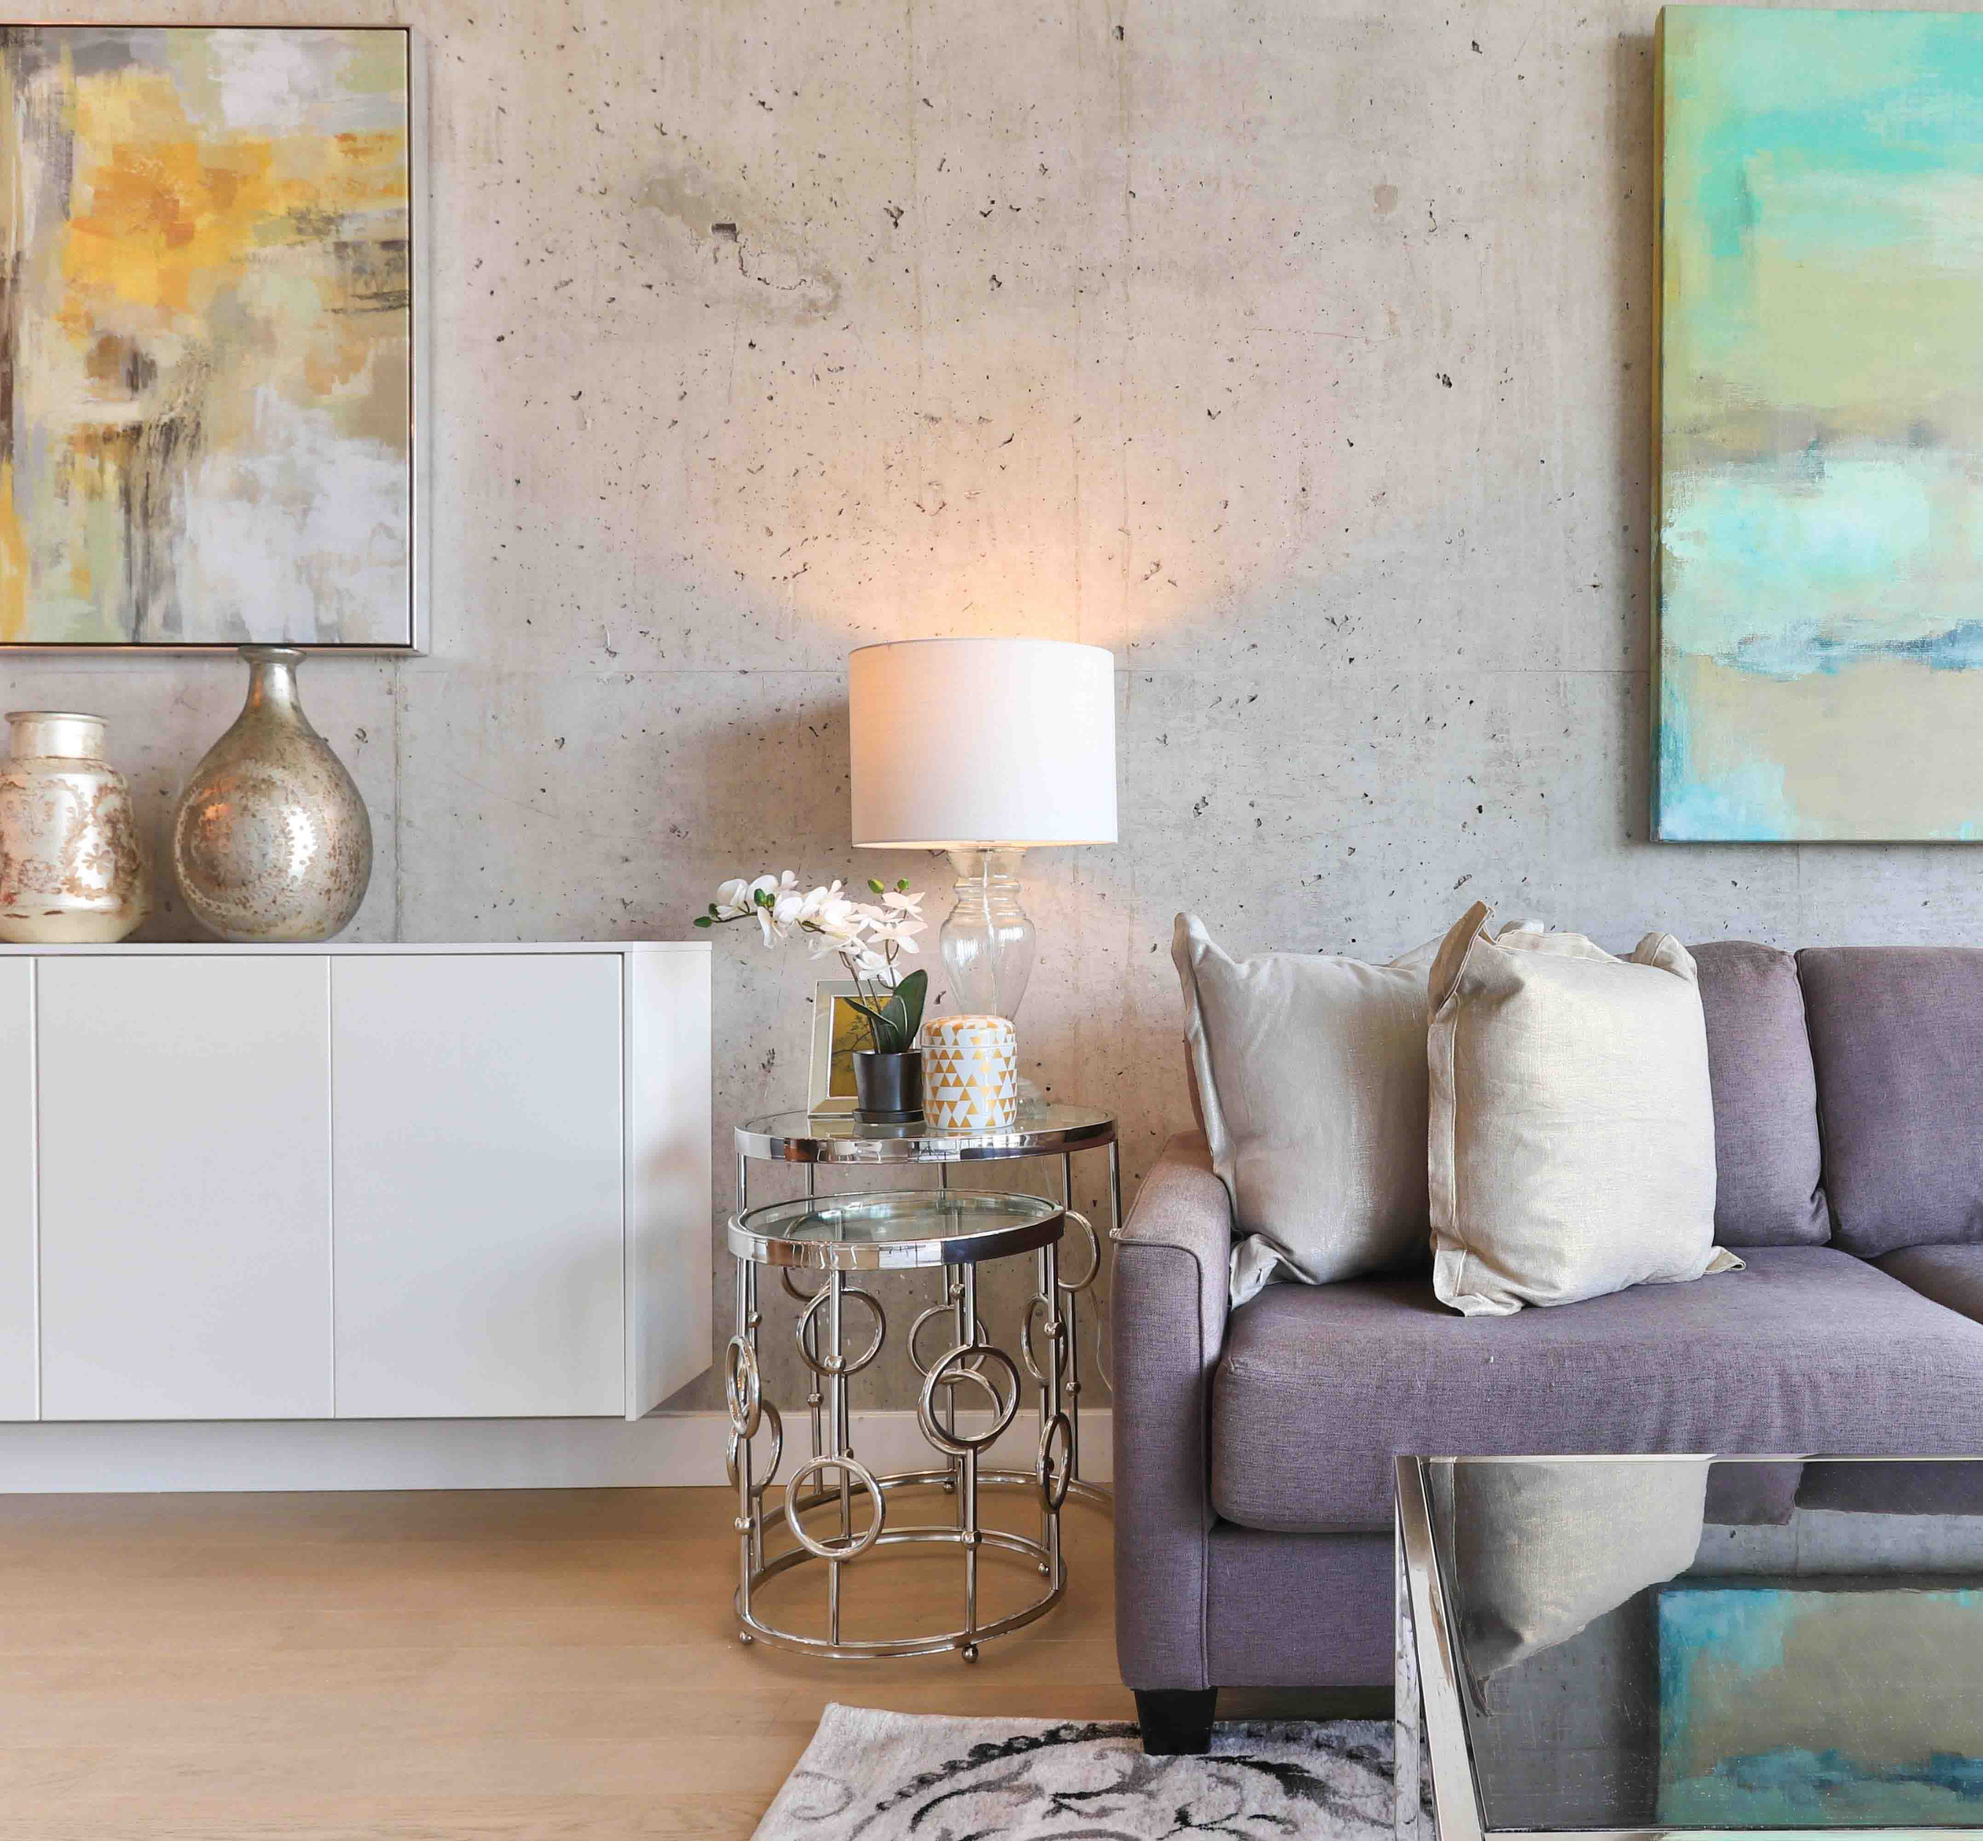
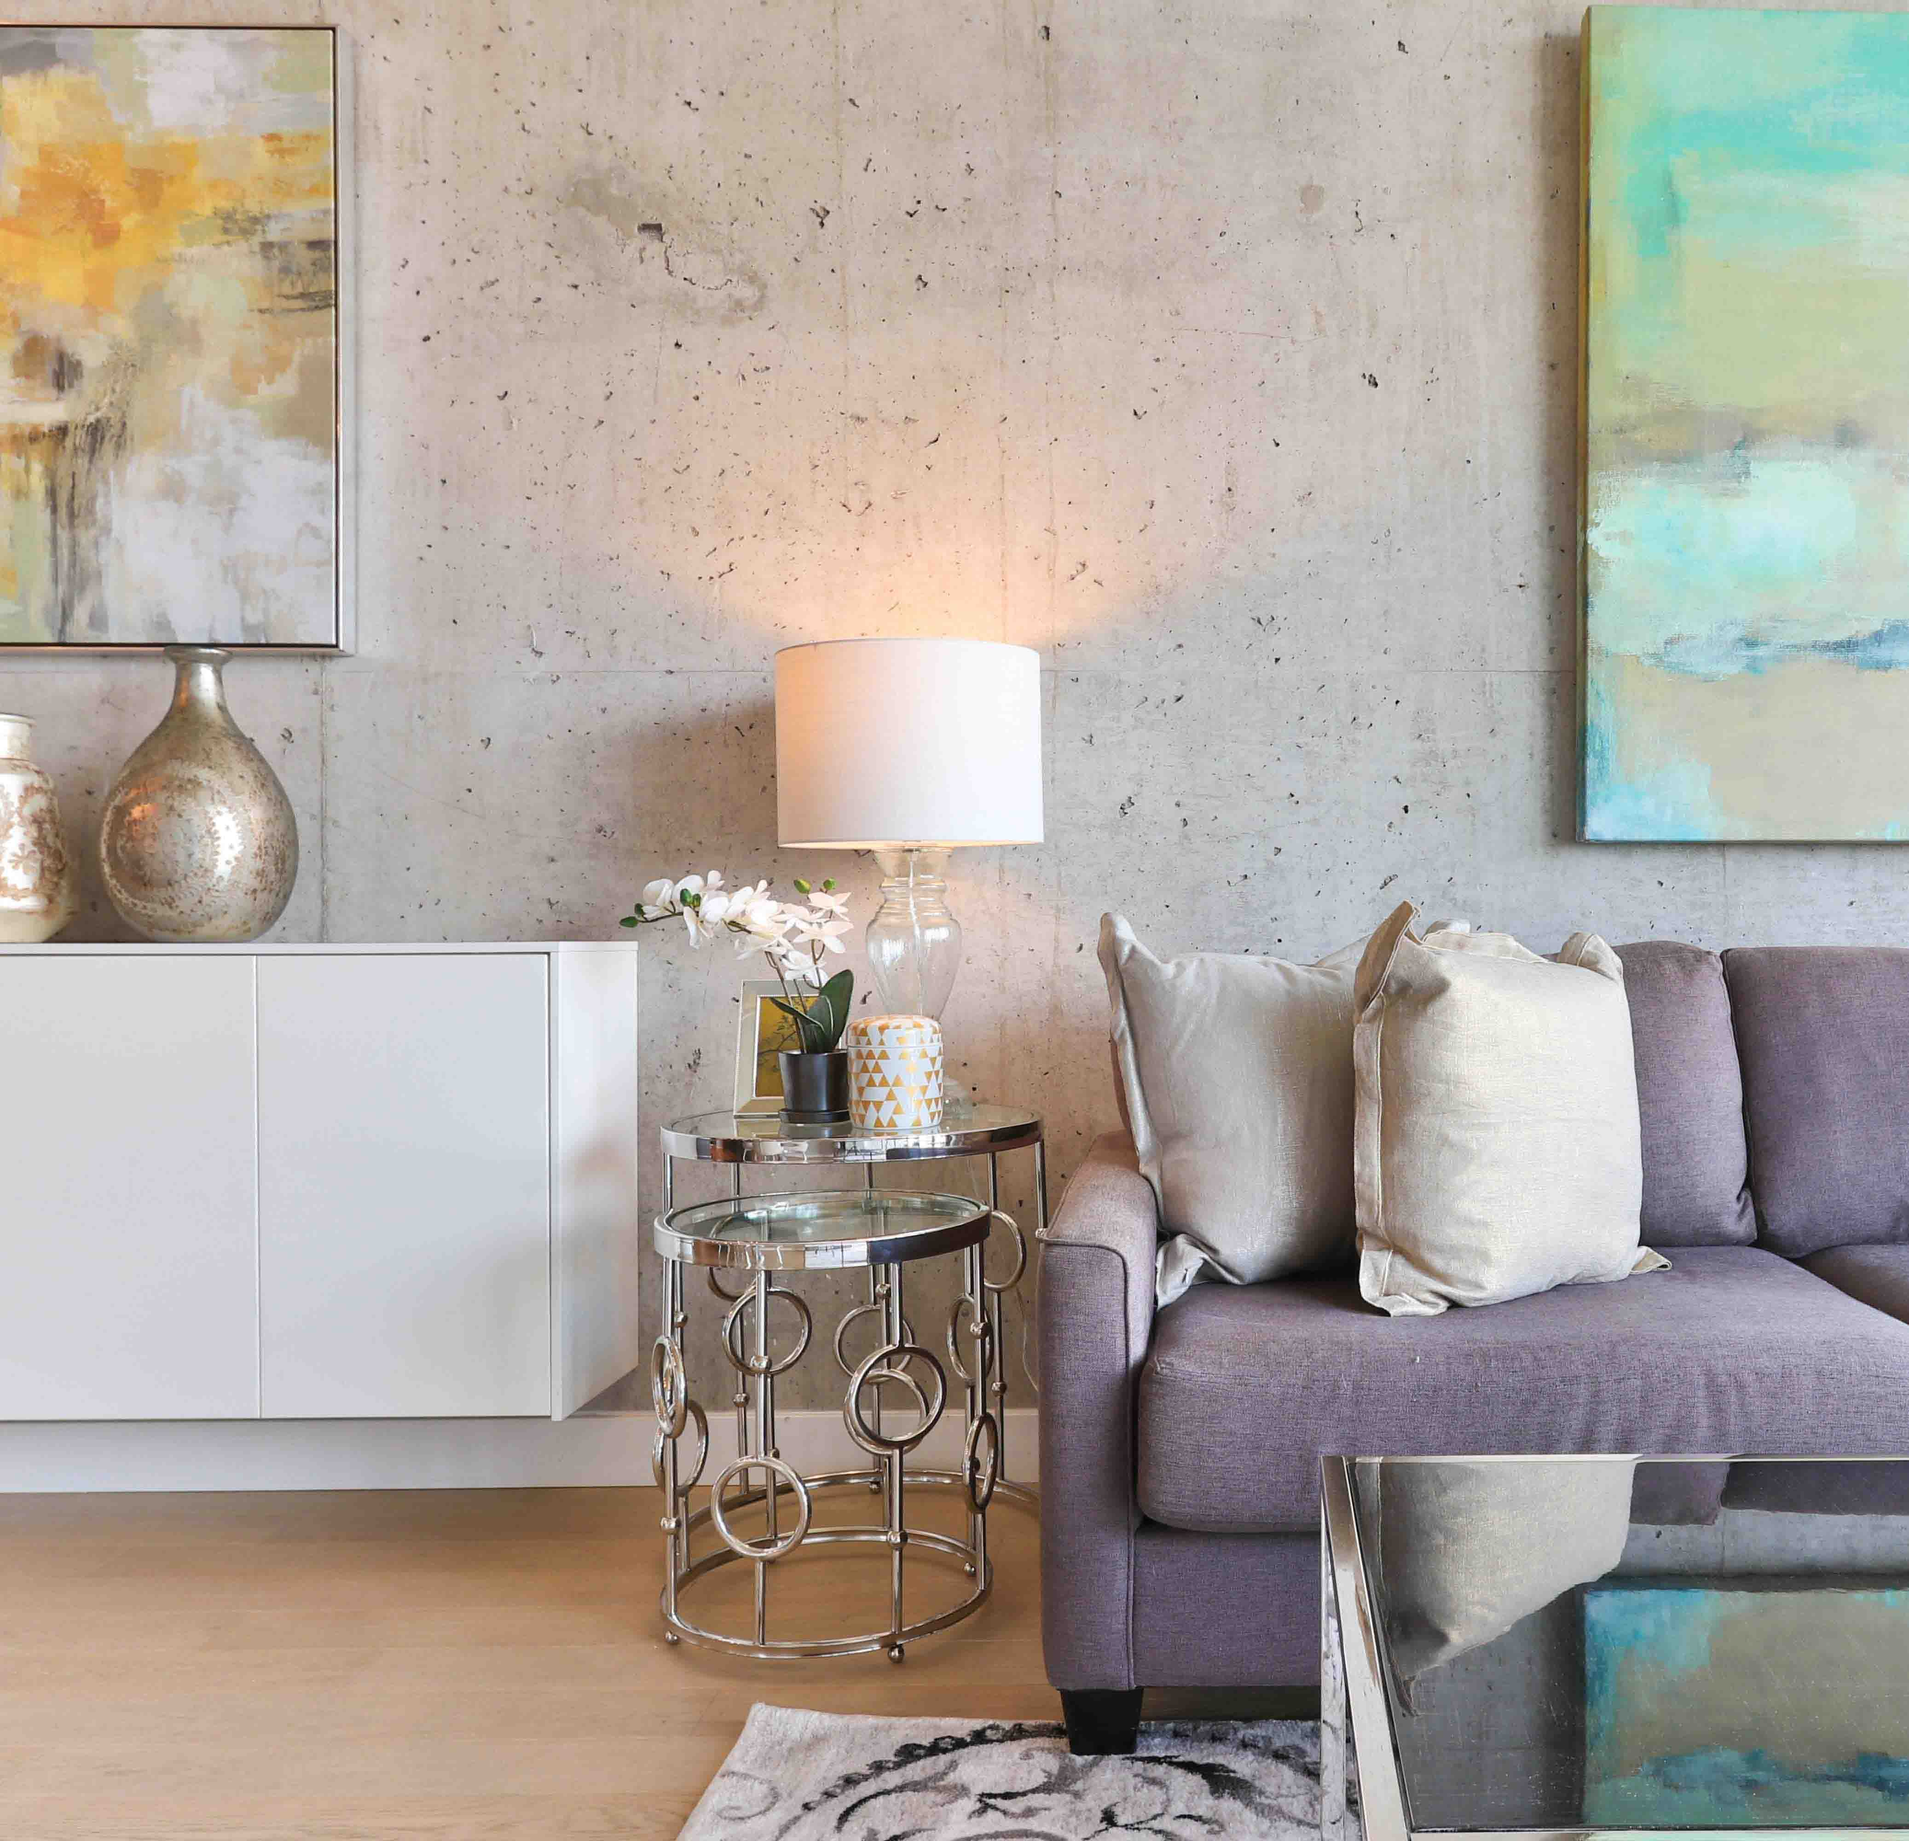
homepage styling

diff --git a/src/components/Home.js b/src/components/Home.js
@@ -1,5 +1,5 @@
 import React from 'react';
-import InputPhoto from './InputPhoto';
+import Photo from './Photo';
 import axios from 'axios';
 import SlidingPane from 'react-sliding-pane';
 import Modal from 'react-modal';
@@ -23,6 +23,13 @@ export default class Home extends React.Component {
         Modal.setAppElement(this.el);
     }
 
+    clearState = () => {
+         this.setState({userInput: [],
+                        inputWord: '',
+                        isPaneOpen: false,
+                        isPaneOpenLeft: false})
+    }
+
     handleDelete = () => {
         let {userInput, inputWord} = this.state;
         let newInput = inputWord.slice(0, inputWord.length-1)
@@ -33,7 +40,7 @@ export default class Home extends React.Component {
         if (!val) {this.setState({userInput: [], inputWord: ''}); return;}
         if (val.length<this.state.inputWord.length) this.handleDelete();
         if (!val.match(/[a-z]/i)) return;
-        if (val.length>10) { this.setState({error: "10 Letter Limit"}); return; }
+        if (val.length>8) { this.setState({error: "8 Letter Limit"}); return; }
         let userInput = val.split('').reduce((acc, letter) => {
             return [...acc, {letter: letter.toUpperCase(), count: 1}]
         }, [])
@@ -44,15 +51,22 @@ export default class Home extends React.Component {
 
     render() {
         const {userInput, inputWord, isPaneOpen, isPaneOpenLeft} = this.state;
+        const blank = [1,2,3]
         let price = (30 + (inputWord.length-3)*5) - 0.01;
         let photos = userInput.length>=3 ? 
         userInput.map((obj, index) => {
             return (
-                <InputPhoto count={obj.count} letter={obj.letter} key={`${obj.letter}${obj.count}${index}`}/>
+                <Photo count={obj.count} letter={obj.letter} key={`${obj.letter}${obj.count}${index}`}/>
             )
-        }) : null
+        }) : blank.map(() => {
+            return (
+                <Photo letter='blank'/>
+            )
+        })
+        let pWidth = userInput.length * 70;
+        let iWidth = userInput.length >=3 ? 300 : 150;
         return (
-            <div ref={ref => this.el = ref} className='inputPageContainer'>
+            <div ref={ref => this.el = ref} className='home'>
                 <header>
                     <i className='fas fa-user-alt' onClick={() => {this.setState({isPaneOpenLeft: true})}}/>
                     <div>
@@ -67,18 +81,19 @@ export default class Home extends React.Component {
                 <SlidingPane isOpen={ isPaneOpenLeft } from='left' width='25%' onRequestClose={() => this.setState({ isPaneOpenLeft: false })}>
                     <Auth/>
                 </SlidingPane>
-                <div className={'photosContainer'}>
+                <div className='photos' style={{width: `${pWidth}px`}}>
                     {photos}
                 </div>
-                <div className='inputContainer'>
-                    <input className='input' placeholder='Type Here!' value={inputWord} onChange={e => this.handleInputChange(e.target.value)} type="text" />
+                <div className='input' style={{width: iWidth}}>
+                    <input placeholder='Type Here!' value={inputWord} onChange={e => this.handleInputChange(e.target.value)} type="text" />
                     {userInput.length>=3 ? 
-                    <div className='inputPriceContainer'>
-                        <h3 className='inputPrice'>Price: ${price}</h3>
-                        <button onClick={this.addToCart} className='addToCartButton'>Add To Cart</button>
+                    <div className='add'>
+                        <h4>${price}</h4>
+                        <i onClick={this.clearState} className='fas fa-times'></i>
+                        <i onClick={this.addToCart}className='fas fa-cart-plus'></i>
                     </div> 
                     : 
-                    <div className='inputPriceContainer'><h3 className="inputPrice">Word Must be At Least 3 Letters</h3></div>}
+                    <div className='add'><h5>*3 Letter Minimum</h5></div>}
                 </div>
                 <footer><h4>*custom framing available upon request</h4></footer>
             </div>

diff --git a/src/styling/main.scss b/src/styling/main.scss
@@ -4,9 +4,132 @@ $f3 : 800 20px Poppins;
 
 html {
     height: 100%;
+    h1, h2, h3, h4, h5, h6 {
+        font: $f1;
+        margin: 0;
+    }
 }
 
 body {
-    min-height: 100%;
+    height: 100%;
     font: $f1;
+    color: white;
+    background: no-repeat top center/cover url('../assets/room.jpg');
+
+    #root {
+        height: 100%;
+    }
+}
+
+.home {
+    height: 100%;
+    header {
+        display: flex;
+        justify-content: space-between;
+        text-align: center;
+        width: 100%;
+        text-shadow: -5px 3px 6px rgba(0,0,0,0.5);
+
+        h1 {
+            font-size: 60px;
+        }
+
+        h2 {
+            font: $f3;
+            letter-spacing: 1px;
+            margin-bottom: 10px;
+        }
+
+        i {
+            margin: 20px;
+            font-size: 24px;
+        }
+    }
+
+    footer {
+        position: absolute;
+        bottom: 10px;
+        left: 20px;
+        color: black;
+        h4 {
+            font: $f2;
+            font-size: 12px;
+        }
+    }
+}
+
+.photos {
+    height: 90px;
+    width: 0;
+    min-width: 220px;
+    margin: auto;
+    display: flex;
+    justify-content: space-evenly;
+    padding: 10px 0;
+    background-color: white;
+    border: 10px solid black;
+    box-shadow: -8px 4px 3px rgba(54, 34, 0, 0.3),
+                -12px 6px 4px rgba(54, 34, 3,0.2),
+                -13px 6px 20px rgba(54, 34, 3,0.1);
+    display: flex;
+    img {
+        width: 60px;
+        height: auto;
+    }
+    i {
+        display: none;
+    }
+
+    .letter {
+        width: 60px;
+        height: 90px;
+    }
+
+    .blank {
+        background-color: #ddd;
+    }
+}
+
+.input {
+    width: 0;
+    min-width: 200px;
+    margin: auto;
+    position: relative;
+    margin-top: 20px;
+    display: flex;
+    background-color: rgba(0,0,0,0.8);
+    transition: width 300ms ease;
+
+    input {
+        font: $f2;
+        width: 130px;
+        border: none;
+        background: none;
+        padding: 0 10px;
+        color: white;
+    }
+
+    input:focus {outline: none;}
+
+    .add {
+        width: 150px;
+        display: flex;
+        justify-content: space-around;
+        align-items: center;
+        i {
+            font-size: 20px;
+        }
+        h4 {
+            font-size: 12px
+        }
+        h5 {
+            font: $f2;
+            font-size: 10px;
+            width: 100px;
+            color: black;
+            position: absolute;
+            top: 35px;
+            left: 50px;
+        }
+    }
 }

diff --git a/src/components/Photo.js b/src/components/Photo.js
@@ -1,7 +1,7 @@
 import React, {Component} from 'react';
 import axios from 'axios';
 
-class InputPhoto extends Component {
+class Photo extends Component {
     constructor(props) {
         super(props);
         this.state={
@@ -13,6 +13,7 @@ class InputPhoto extends Component {
     }
 
     componentDidMount() {
+        if (this.state.letter === 'blank') return;
         this.getPhoto();
     }
 
@@ -41,16 +42,15 @@ class InputPhoto extends Component {
     }
 
     render() {
-        return (
-            <div className='photo-container'>
-                {/* <button onClick={this.handleUpButton}>^</button> */}
-                <i onClick={this.handleUpButton} className="fas fa-angle-up"></i>
-                <img src={this.state.url} alt=''/>
-                <i  onClick={this.handleDownButton} className="fas fa-angle-down"></i>
-                {/* <button onClick={this.handleDownButton}>v</button> */}
-            </div>
-        )
+
+        return this.props.letter === 'blank' ? <div className='letter blank'/>
+        :
+        <div className='letter'>
+            <i onClick={this.handleUpButton} className="fas fa-angle-up"></i>
+            <img src={this.state.url} alt={this.state.letter}/>
+            <i  onClick={this.handleDownButton} className="fas fa-angle-down"></i>
+        </div>
     }
 }
 
-export default InputPhoto;
+export default Photo;

diff --git a/src/components/Cart.js b/src/components/Cart.js
@@ -40,16 +40,14 @@ class Cart extends React.Component {
 
         return (
             <div>
-                <div className='cartContainer'>
-                    <div className='cartOrdersContainer'>
+                <div className='cart'>
+                    <div className='orders'>
                         {this.state.cart.length !== 0 ? orders : <h2>No Orders in Cart</h2>}
                     </div>
-                    <div className='checkoutContainer'>
-                        <div className='checkoutNav' onClick={this.toggleCheckout}>
-                            <h4>{this.state.cart.length} Items</h4>
-                            <h4>${this.state.price}.00</h4>
-                            <i className="fas fa-credit-card fa-2x"></i>
-                        </div>
+                    <div className='checkout'>
+                        <h4>{this.state.cart.length} Items</h4>
+                        <h4>${this.state.price}.00</h4>
+                        <i className="fas fa-credit-card fa-2x"></i>
                         <Checkout orders={this.state.cart} totalPrice={this.state.price}/>
                     </div>
                 </div>

diff --git a/src/components/Admin.js b/src/components/Admin.js
@@ -2,7 +2,7 @@ import React, {Component} from 'react';
 import {connect} from 'react-redux';
 import axios from 'axios';
 import {loggedOut} from '../redux/reducer';
-import InputPhoto from './InputPhoto';
+import Photo from './Photo';
 
 class Admin extends Component {
     constructor() {
@@ -62,7 +62,7 @@ class Admin extends Component {
                 let letter = ids.letter;
                 let count = ids.count;
                 return (
-                        <InputPhoto count={count} letter={letter} key={`${letter}${count}${index}`}/>
+                        <Photo count={count} letter={letter} key={`${letter}${count}${index}`}/>
                 )
             })
             if (userid) {

diff --git a/src/components/User.js b/src/components/User.js
@@ -2,7 +2,7 @@ import React, {Component} from 'react';
 import {connect} from 'react-redux';
 import axios from 'axios';
 import {loggedOut} from '../redux/reducer';
-import InputPhoto from './InputPhoto';
+import Photo from './Photo';
 
 class User extends Component {
     constructor() {
@@ -60,7 +60,7 @@ class User extends Component {
                 let letter = ids.letter;
                 let count = ids.count;
                 return (
-                        <InputPhoto count={count} letter={letter} key={`${letter}${count}${index}`}/>
+                        <Photo count={count} letter={letter} key={`${letter}${count}${index}`}/>
                 )
             })
             return (

diff --git a/src/components/Order.js b/src/components/Order.js
@@ -1,12 +1,12 @@
 import React from 'react';
-import InputPhoto from './InputPhoto';
+import Photo from './Photo';
 
 function Order (props) {
     let array = props.pictureIDs;
     let i=0;
     let photos = array.map(photo => {
         i--
-        return <InputPhoto key={i} count={photo.count} letter={photo.letter}/>
+        return <Photo key={i} count={photo.count} letter={photo.letter}/>
     })
 
     return (
